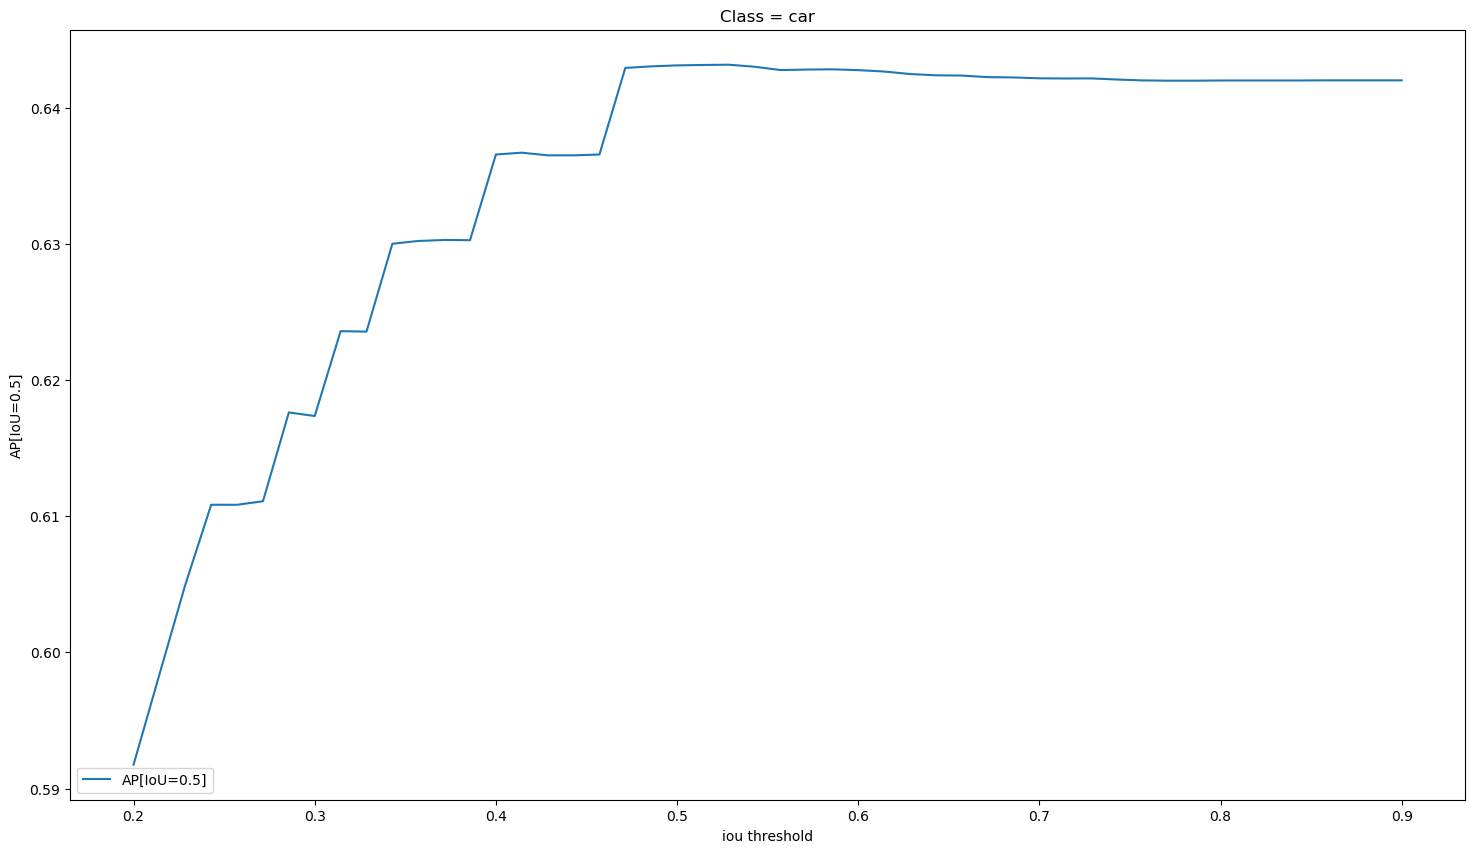
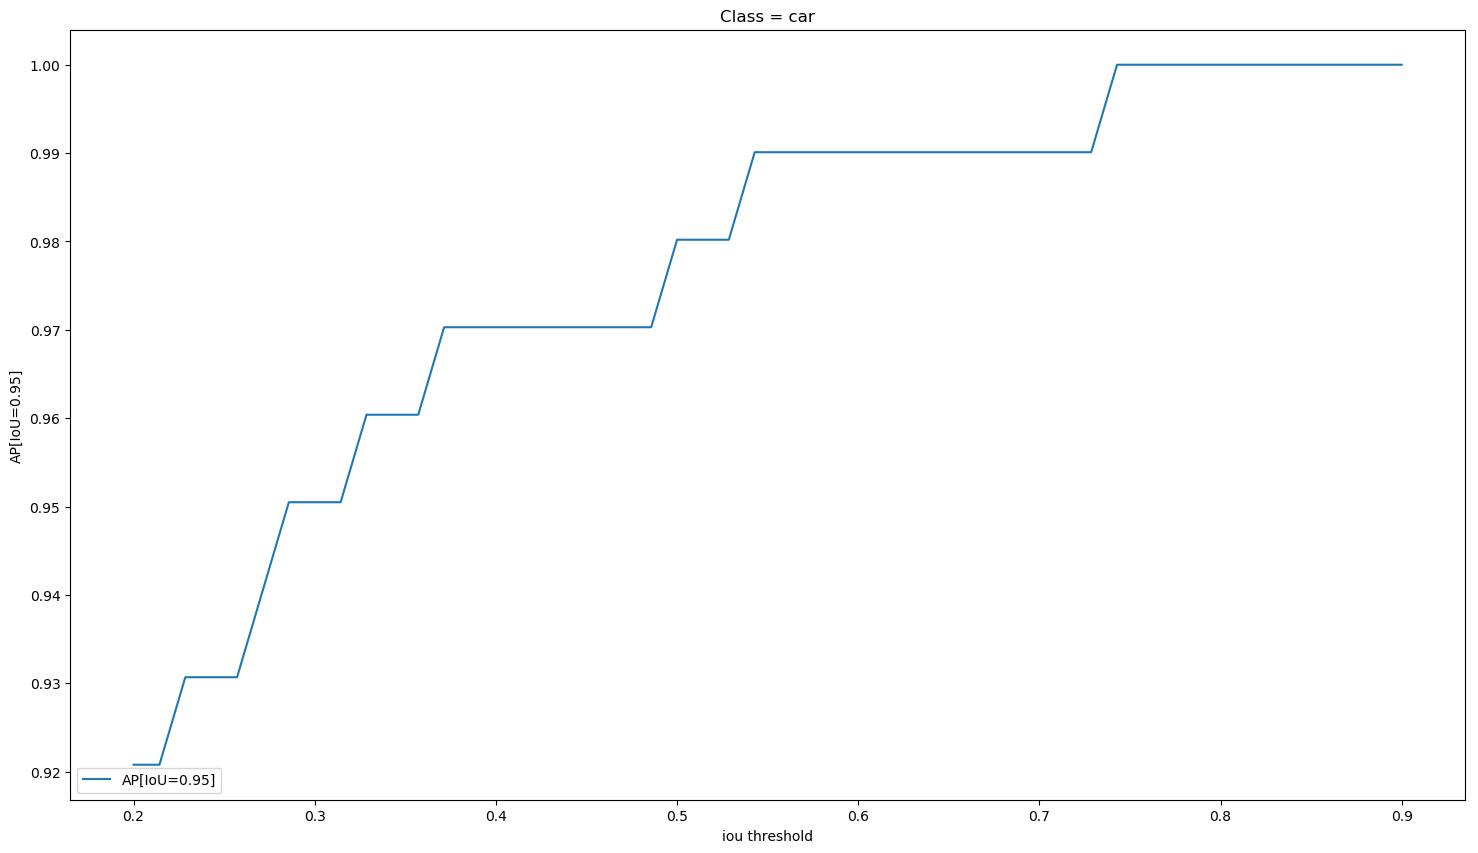
modify pycocotool librairy

diff --git a/analysis_train.py b/analysis_train.py
@@ -142,7 +142,7 @@ def writeResToJson(resFilePath,coco,catIds,img,iou_threshold):
         json.dump(result, fs, indent=1)
     return list(imgIds) 
 
-def getAP05(img,resFilePath,cocoApi,catIds,number_IoU_thresh = 50):
+def getAP095(img,resFilePath,cocoApi,catIds,number_IoU_thresh = 50):
     """
     input:
         model : OD detector
@@ -157,7 +157,6 @@ def getAP05(img,resFilePath,cocoApi,catIds,number_IoU_thresh = 50):
     
     iou_thresholdXaxis = np.linspace(0.2,0.9,number_IoU_thresh)
     AP = []
-    res_iou = list()
     for iou_threshold in tqdm(iou_thresholdXaxis,desc = "progressbar IoU Threshold"):
         #Create the Json result file and read it.
         imgIds = writeResToJson(resFilePath,cocoApi,catIds,img,iou_threshold)
@@ -171,48 +170,48 @@ def getAP05(img,resFilePath,cocoApi,catIds,number_IoU_thresh = 50):
         #compared to the best one.
         cocoEval.params.maxDets = [1,10,1000]
         cocoEval.evaluate()
-        # for iou_arrays in cocoEval.ious.values():
-          
-        #     for iou in iou_arrays[0]:
-        #         if iou > 0.1 and iou <0.98: 
-        #             res_iou.append(iou)
-        # print(res_iou)
-        # return res_iou
+        
         cocoEval.accumulate()
         cocoEval.summarize()
         #readDoc and find self.evals
-        AP.append(cocoEval.stats[1])
+        #modified version of pycocotools to have 3rd argument to be AP[IoU = 0.95]
+        AP.append(cocoEval.stats[2])
     
     return AP
 
 
 
-# def getIoU(coco,catIds):
+def getIoU(cocoApi,catIds,resFilePath):
     
-#     iou = list()
-#     imgIds = coco.getImgIds(catIds=catIds)
-#     cocoDt=cocoApi.loadRes(resFilePath)
-#     cocoEval = COCOeval(cocoApi,cocoDt,'bbox')
-#     cocoEval.params.imgIds  = imgIds
-#     cocoEval.params.catIds  = catIds
-#     #Here we increase the maxDet to 1000 (same as in model config file)
-#     #Because we want to optimize the nms that is normally in charge of dealing with
-#     #bbox that detects the same object twice or detection that are not very precise
-#     #compared to the best one.
-#     cocoEval.params.maxDets = [1,10,1000]
-#     cocoEval.evaluate()
-
+    res_iou = list()
+    imgIds = writeResToJson(resFilePath,cocoApi,catIds,img,1)
+    cocoDt=cocoApi.loadRes(resFilePath)
+    cocoEval = COCOeval(cocoApi,cocoDt,'bbox')
+    cocoEval.params.imgIds  = imgIds
+    cocoEval.params.catIds  = catIds
+    #Here we increase the maxDet to 1000 (same as in model config file)
+    #Because we want to optimize the nms that is normally in charge of dealing with
+    #bbox that detects the same object twice or detection that are not very precise
+    #compared to the best one.
+    cocoEval.params.maxDets = [1,10,1000]
+    cocoEval.evaluate()
+    for iou_arrays in cocoEval.ious.values():
+        for iou in iou_arrays[0]:
+            if iou > 0.1 and iou <0.98: 
+                res_iou.append(iou)
+        print(res_iou)
+        return res_iou
 def plotAP(AP,catStudied,number_IoU_thresh):
     
     plt.figure(figsize=(18,10))
     iou_thresholdXaxis = np.linspace(0.2,0.9,number_IoU_thresh)
     # Plot the data
-    plt.plot(iou_thresholdXaxis, AP, label='AP[IoU=0.5]')
+    plt.plot(iou_thresholdXaxis, AP, label='AP[IoU=0.95]')
     # Add a legend
     plt.legend(loc = "lower left")
     plt.title('Class = {}'.format(catStudied))
     plt.xlabel('iou threshold')
-    plt.ylabel('AP[IoU=0.5]')
+    plt.ylabel('AP[IoU=0.95]')
     plt.savefig('graph_result_train/{}.png'.format(catStudied), bbox_inches='tight')
     plt.clf()
    
@@ -220,14 +219,17 @@ def plotHistIou(ious,catStudied):
     plt.figure(figsize=(18,10))
     nb_bins = 20
     plt.hist(ious,bins=nb_bins)
+    plt.ylabel('Number of detections')
+    plt.xlabel("IoU")
+    plt.title('Class = {}'.format(catStudied))
     plt.savefig('graph_result_train/hist_{}.png'.format(catStudied), bbox_inches='tight')
     plt.clf()
 
 coco = loadCocoApi(dataType="train2017")
 resFilePath = "cocoapi/results/train_res.json"
-img,catIds = getImgClass("car",coco,float("inf"))
+img,catIds = getImgClass("car",coco,1000)
 
-AP = getAP05(img,resFilePath,coco,catIds[0])  
+AP = getAP095(img,resFilePath,coco,catIds[0])  
 # plotHistIou(ious,"car")
 
 plotAP(AP,"car",50)

diff --git a/NMS_project.py b/NMS_project.py
@@ -320,7 +320,7 @@ def getAP05(model,img,resFilePath,cocoApi,catIds,catStudied,number_IoU_thresh = 
         cocoEval.params.maxDets = [1,10,1000]
         cocoEval.evaluate()
         cocoEval.accumulate()
-        cocoEval.summarize()
+        # cocoEval.summarize()
         #readDoc and find self.evals
         AP.append(cocoEval.stats[1])
     with open("class_value_AP/{}.json".format(catStudied), 'w') as fs:
